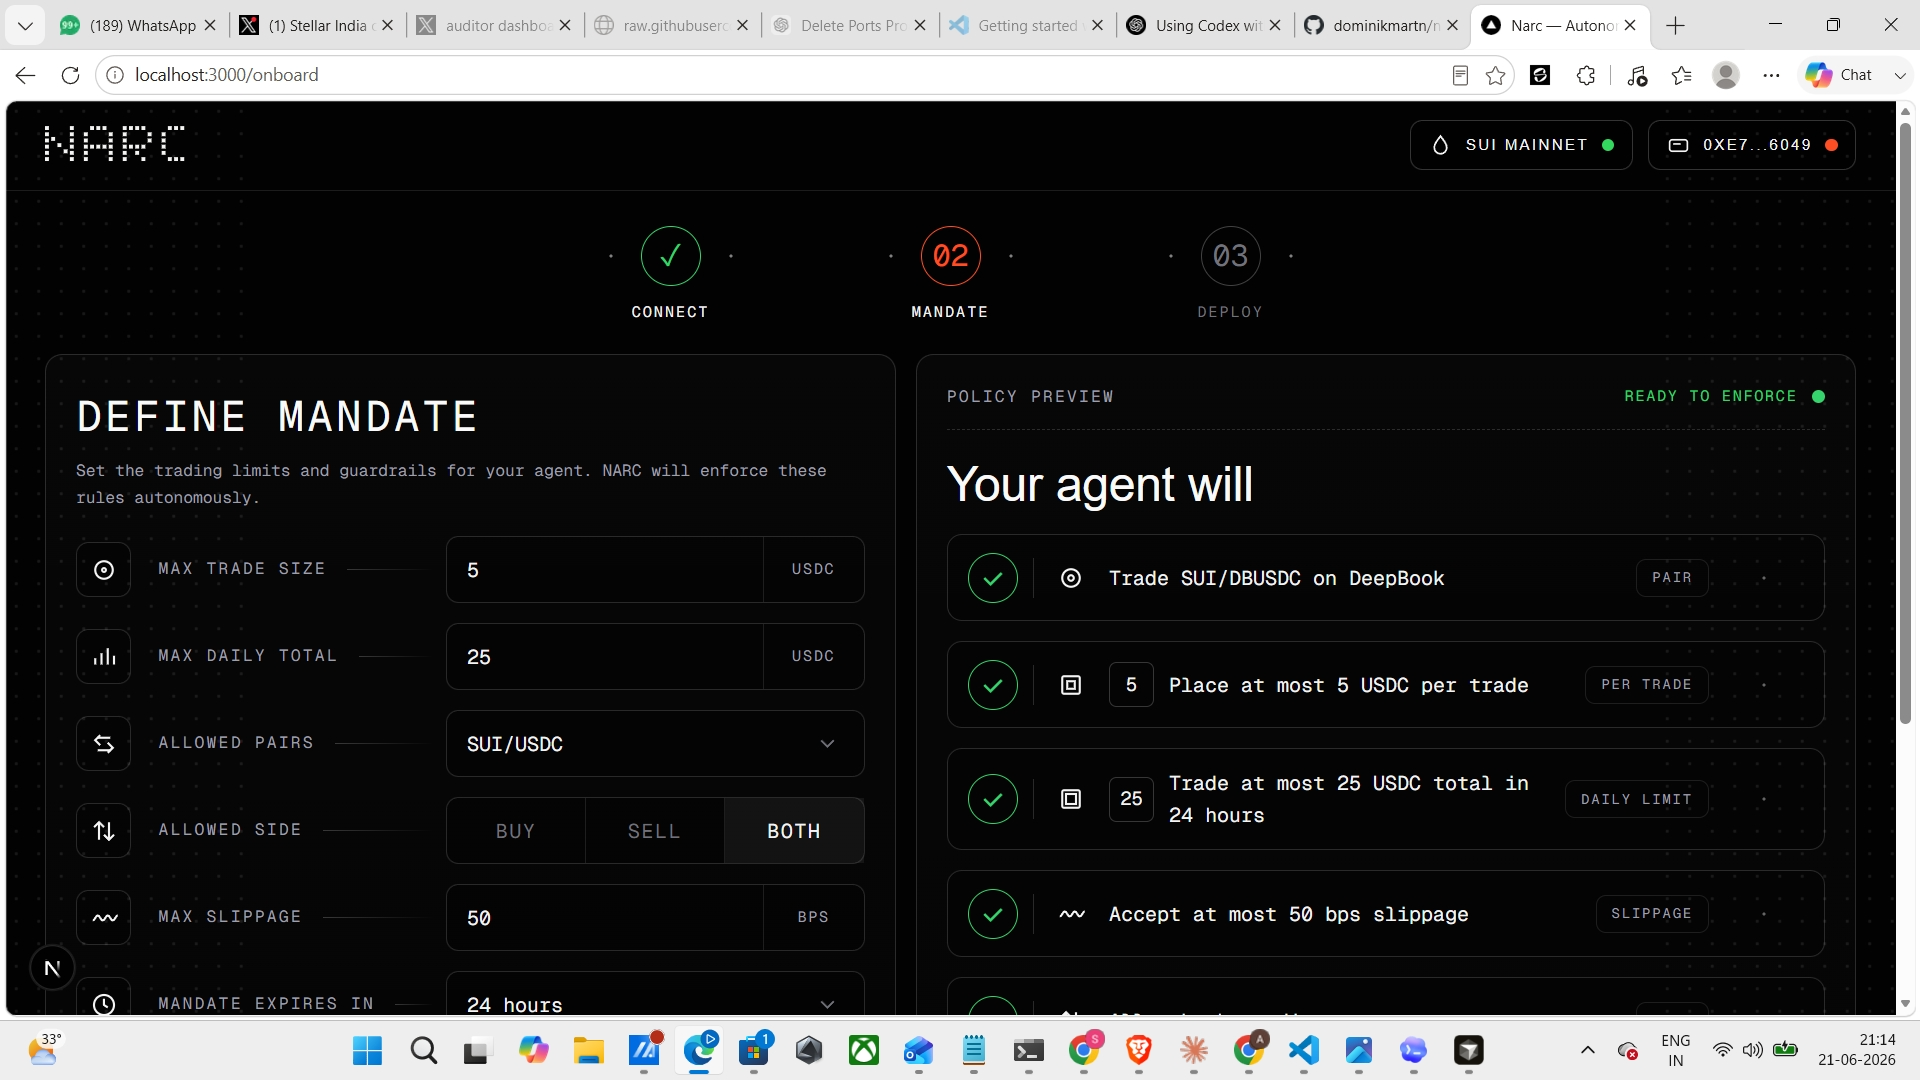
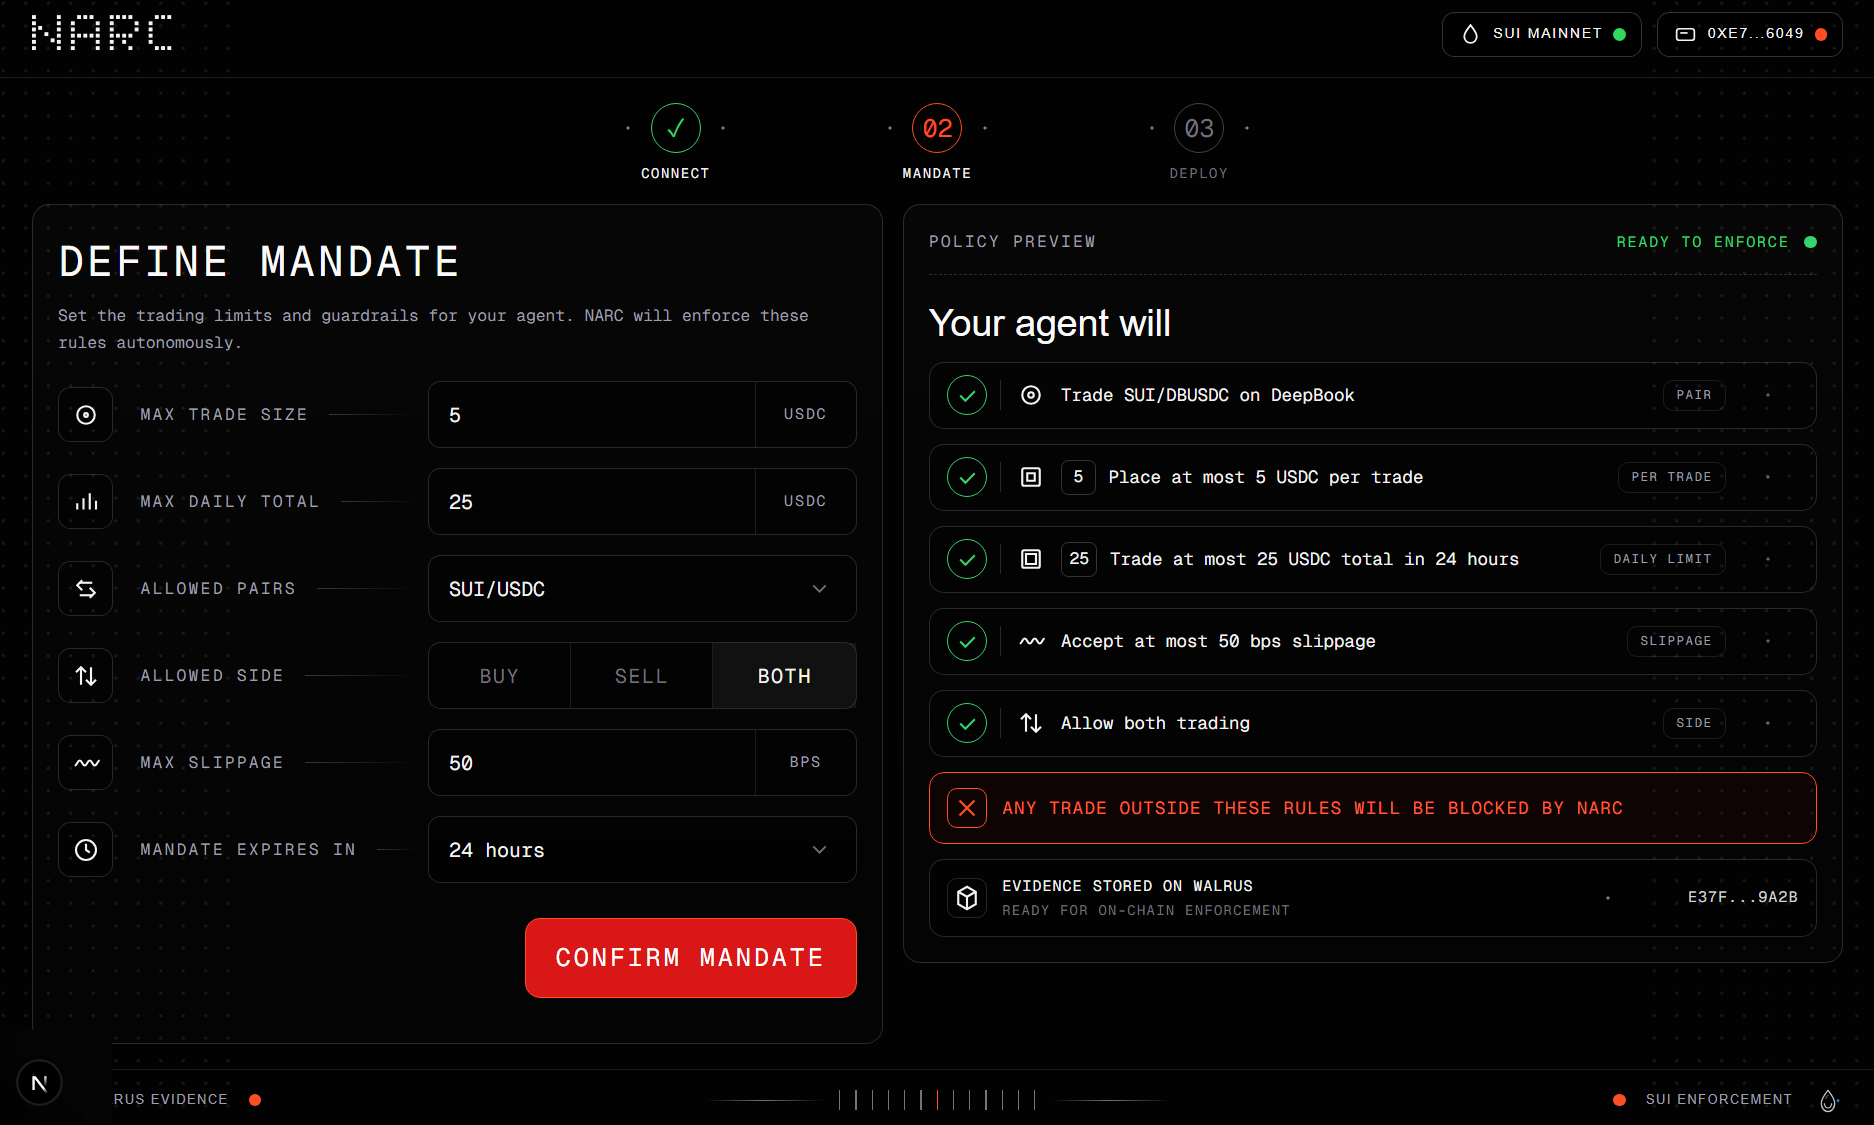
its all on singh sachi now

diff --git a/frontend/components/MandatePreview.tsx b/frontend/components/MandatePreview.tsx
@@ -19,8 +19,8 @@ export function MandatePreview({ values }: Props) {
     "Both";
 
   return (
-    <div className="space-y-4">
-      <h3 className="text-[26px] leading-tight text-zinc-50 sm:text-[38px]">
+    <div className="space-y-2.5">
+      <h3 className="text-[18px] leading-tight text-zinc-50 sm:text-[24px]">
         Your agent will
       </h3>
 
@@ -78,41 +78,41 @@ export function MandatePreview({ values }: Props) {
         text={`Allow ${sideLabel.toLowerCase()} trading`}
       />
 
-      <div className="rounded-[12px] border border-[#ff4d24] bg-[#0d0403] px-4 py-3.5">
-        <div className="flex items-center gap-4">
-          <span className="grid h-10 w-10 place-items-center rounded-[8px] border border-[#ff4d24] text-[#ff4d24]">
-            <svg viewBox="0 0 24 24" fill="none" stroke="currentColor" strokeWidth="1.8" className="h-6 w-6">
+      <div className="rounded-[12px] border border-[#ff4d24] bg-[#0d0403] px-3 py-2.5">
+        <div className="flex items-center gap-2.5">
+          <span className="grid h-7 w-7 place-items-center rounded-[7px] border border-[#ff4d24] text-[#ff4d24]">
+            <svg viewBox="0 0 24 24" fill="none" stroke="currentColor" strokeWidth="1.8" className="h-5 w-5">
               <path d="M6 6l12 12" />
               <path d="M18 6 6 18" />
             </svg>
           </span>
-          <p className="font-mono text-[14px] uppercase tracking-[0.08em] text-[#ff5c3b] sm:text-[16px]">
+          <p className="font-mono text-[11px] uppercase tracking-[0.06em] text-[#ff5c3b] sm:text-[12px]">
             Any trade outside these rules will be blocked by NARC
           </p>
         </div>
       </div>
 
-      <div className="flex items-center justify-between gap-4 rounded-[12px] border border-white/15 bg-black/30 px-4 py-3.5">
-        <div className="flex items-center gap-4">
-          <span className="grid h-10 w-10 place-items-center rounded-[8px] border border-white/15 text-zinc-100">
-            <svg viewBox="0 0 24 24" fill="none" stroke="currentColor" strokeWidth="1.7" className="h-6 w-6">
+      <div className="flex items-center justify-between gap-3 rounded-[12px] border border-white/15 bg-black/30 px-3 py-2.5">
+        <div className="flex items-center gap-2.5">
+          <span className="grid h-7 w-7 place-items-center rounded-[7px] border border-white/15 text-zinc-100">
+            <svg viewBox="0 0 24 24" fill="none" stroke="currentColor" strokeWidth="1.7" className="h-5 w-5">
               <path d="m12 3 7 4v10l-7 4-7-4V7l7-4Z" />
               <path d="M5 7l7 4 7-4" />
               <path d="M12 11v10" />
             </svg>
           </span>
           <div>
-            <div className="font-mono text-[14px] uppercase tracking-[0.08em] text-zinc-100">
+            <div className="font-mono text-[11px] uppercase tracking-[0.06em] text-zinc-100">
               Evidence stored on Walrus
             </div>
-            <div className="mt-1 font-mono text-[12px] uppercase tracking-[0.12em] text-zinc-500">
+            <div className="mt-0.5 font-mono text-[10px] uppercase tracking-[0.08em] text-zinc-500">
               Ready for on-chain enforcement
             </div>
           </div>
         </div>
-        <div className="hidden items-center gap-6 sm:flex">
-          <div className="h-4 w-32 bg-[radial-gradient(circle,rgba(255,255,255,0.65)_1px,transparent_1.5px)] bg-[length:8px_8px] bg-center bg-no-repeat opacity-80" />
-          <span className="font-mono text-[14px] uppercase tracking-[0.08em] text-zinc-300">
+        <div className="hidden items-center gap-3 sm:flex">
+          <div className="h-3 w-18 bg-[radial-gradient(circle,rgba(255,255,255,0.65)_1px,transparent_1.5px)] bg-[length:8px_8px] bg-center bg-no-repeat opacity-80" />
+          <span className="font-mono text-[11px] uppercase tracking-[0.06em] text-zinc-300">
             e37f...9a2b
           </span>
         </div>
@@ -133,28 +133,28 @@ function PreviewItem({
   value?: string;
 }) {
   return (
-    <div className="flex items-center gap-3 rounded-[12px] border border-white/15 bg-black/25 px-4 py-3.5">
-      <span className="grid h-10 w-10 shrink-0 place-items-center rounded-full border border-[#36d46c] text-[#36d46c]">
-        <svg viewBox="0 0 24 24" fill="none" stroke="currentColor" strokeWidth="2" className="h-6 w-6">
+    <div className="flex items-center gap-2 rounded-[12px] border border-white/15 bg-black/25 px-3 py-2">
+      <span className="grid h-7 w-7 shrink-0 place-items-center rounded-full border border-[#36d46c] text-[#36d46c]">
+        <svg viewBox="0 0 24 24" fill="none" stroke="currentColor" strokeWidth="2" className="h-4.5 w-4.5">
           <path d="m5 12 5 5L19 8" />
         </svg>
       </span>
-      <div className="h-8 w-px shrink-0 bg-white/15" />
-      <span className="grid h-9 w-9 shrink-0 place-items-center text-zinc-100">
+      <div className="h-5 w-px shrink-0 bg-white/15" />
+      <span className="grid h-6 w-6 shrink-0 place-items-center text-zinc-100">
         {icon}
       </span>
       {value ? (
-        <span className="grid h-9 min-w-9 shrink-0 place-items-center rounded-[6px] border border-white/20 px-2 font-mono text-[15px] text-zinc-100">
+        <span className="grid h-6 min-w-6 shrink-0 place-items-center rounded-[6px] border border-white/20 px-1 font-mono text-[11px] text-zinc-100">
           {value}
         </span>
       ) : null}
-      <span className="min-w-0 flex-1 font-mono text-[14px] leading-relaxed text-zinc-100 sm:text-[16px]">
+      <span className="min-w-0 flex-1 font-mono text-[11px] leading-relaxed text-zinc-100 sm:text-[12px]">
         {text}
       </span>
-      <span className="hidden rounded-[8px] border border-white/10 px-3 py-1.5 font-mono text-[11px] uppercase tracking-[0.14em] text-zinc-400 lg:block">
+      <span className="hidden rounded-[8px] border border-white/10 px-2 py-0.5 font-mono text-[9px] uppercase tracking-[0.1em] text-zinc-400 lg:block">
         {label}
       </span>
-      <span className="hidden h-4 w-16 bg-[radial-gradient(circle,rgba(255,255,255,0.55)_1px,transparent_1.5px)] bg-[length:8px_8px] bg-center bg-no-repeat opacity-70 lg:block" />
+      <span className="hidden h-2.5 w-10 bg-[radial-gradient(circle,rgba(255,255,255,0.55)_1px,transparent_1.5px)] bg-[length:8px_8px] bg-center bg-no-repeat opacity-70 lg:block" />
     </div>
   );
 }

diff --git a/frontend/components/MandateForm.tsx b/frontend/components/MandateForm.tsx
@@ -32,7 +32,7 @@ const DEFAULTS: MandateFormValues = {
 
 function FieldIcon({ children }: { children: ReactNode }) {
   return (
-    <span className="grid h-11 w-11 shrink-0 place-items-center rounded-[10px] border border-white/15 bg-black/40 text-zinc-100">
+    <span className="grid h-8 w-8 shrink-0 place-items-center rounded-[8px] border border-white/15 bg-black/40 text-zinc-100">
       {children}
     </span>
   );
@@ -48,10 +48,10 @@ function FieldRow({
   children: ReactNode;
 }) {
   return (
-    <div className="grid gap-2.5 md:grid-cols-[56px_minmax(160px,220px)_minmax(0,1fr)] md:items-center">
+    <div className="grid gap-1.5 md:grid-cols-[40px_minmax(132px,182px)_minmax(0,1fr)] md:items-center">
       <FieldIcon>{icon}</FieldIcon>
-      <div className="flex items-center gap-4">
-        <span className="font-mono text-[13px] uppercase tracking-[0.14em] text-zinc-400">
+      <div className="flex items-center gap-2.5">
+        <span className="font-mono text-[10px] uppercase tracking-[0.1em] text-zinc-400">
           {label}
         </span>
         <span className="hidden h-[1px] flex-1 bg-[linear-gradient(90deg,rgba(255,255,255,0.2),transparent)] md:block" />
@@ -77,7 +77,7 @@ function NumericInput({
   step: number;
 }) {
   return (
-    <div className="grid grid-cols-[minmax(0,1fr)_80px] rounded-[10px] border border-white/15 bg-black/35">
+    <div className="grid grid-cols-[minmax(0,1fr)_60px] rounded-[10px] border border-white/15 bg-black/35">
       <input
         type="number"
         min={min}
@@ -85,10 +85,10 @@ function NumericInput({
         step={step}
         value={value}
         onChange={(e) => onChange(Number(e.target.value))}
-        className="min-w-0 border-r border-white/10 bg-transparent px-4 py-3.5 font-mono text-[16px] text-zinc-100 outline-none placeholder:text-zinc-600 focus:bg-white/[0.03]"
+        className="min-w-0 border-r border-white/10 bg-transparent px-3 py-2 font-mono text-[13px] text-zinc-100 outline-none placeholder:text-zinc-600 focus:bg-white/[0.03]"
         required
       />
-      <div className="grid place-items-center px-3 font-mono text-[12px] uppercase tracking-[0.12em] text-zinc-400">
+      <div className="grid place-items-center px-1.5 font-mono text-[9px] uppercase tracking-[0.08em] text-zinc-400">
         {suffix}
       </div>
     </div>
@@ -119,11 +119,11 @@ export function MandateForm({
   }
 
   return (
-    <form onSubmit={handleSubmit} className="space-y-4">
+    <form onSubmit={handleSubmit} className="space-y-2.5">
       <FieldRow
         label="Max trade size"
         icon={
-          <svg viewBox="0 0 24 24" fill="none" stroke="currentColor" strokeWidth="1.7" className="h-6 w-6">
+          <svg viewBox="0 0 24 24" fill="none" stroke="currentColor" strokeWidth="1.7" className="h-4.5 w-4.5">
             <circle cx="12" cy="12" r="7" />
             <circle cx="12" cy="12" r="1.5" />
           </svg>
@@ -141,7 +141,7 @@ export function MandateForm({
       <FieldRow
         label="Max daily total"
         icon={
-          <svg viewBox="0 0 24 24" fill="none" stroke="currentColor" strokeWidth="1.7" className="h-6 w-6">
+          <svg viewBox="0 0 24 24" fill="none" stroke="currentColor" strokeWidth="1.7" className="h-4.5 w-4.5">
             <path d="M5 18V13" />
             <path d="M10 18V9" />
             <path d="M15 18V5" />
@@ -161,7 +161,7 @@ export function MandateForm({
       <FieldRow
         label="Allowed pairs"
         icon={
-          <svg viewBox="0 0 24 24" fill="none" stroke="currentColor" strokeWidth="1.7" className="h-6 w-6">
+          <svg viewBox="0 0 24 24" fill="none" stroke="currentColor" strokeWidth="1.7" className="h-4.5 w-4.5">
             <path d="M7 7h10" />
             <path d="M7 17h10" />
             <path d="M9 5 5 9l4 4" />
@@ -173,12 +173,12 @@ export function MandateForm({
           <select
             value={values.allowedPairs[0]}
             onChange={(e) => set("allowedPairs", [e.target.value])}
-            className="w-full appearance-none rounded-[10px] border border-white/15 bg-black/35 px-4 py-3.5 font-mono text-[16px] text-zinc-100 outline-none transition focus:bg-white/[0.03]"
+            className="w-full appearance-none rounded-[10px] border border-white/15 bg-black/35 px-3 py-2 font-mono text-[13px] text-zinc-100 outline-none transition focus:bg-white/[0.03]"
           >
             <option value="SUI_DBUSDC">SUI/USDC</option>
           </select>
-          <span className="pointer-events-none absolute inset-y-0 right-5 flex items-center text-zinc-500">
-            <svg viewBox="0 0 24 24" fill="none" stroke="currentColor" strokeWidth="1.7" className="h-5 w-5">
+          <span className="pointer-events-none absolute inset-y-0 right-3.5 flex items-center text-zinc-500">
+            <svg viewBox="0 0 24 24" fill="none" stroke="currentColor" strokeWidth="1.7" className="h-3.5 w-3.5">
               <path d="m6 9 6 6 6-6" />
             </svg>
           </span>
@@ -188,7 +188,7 @@ export function MandateForm({
       <FieldRow
         label="Allowed side"
         icon={
-          <svg viewBox="0 0 24 24" fill="none" stroke="currentColor" strokeWidth="1.7" className="h-6 w-6">
+          <svg viewBox="0 0 24 24" fill="none" stroke="currentColor" strokeWidth="1.7" className="h-4.5 w-4.5">
             <path d="M8 5v14" />
             <path d="m4 9 4-4 4 4" />
             <path d="M16 19V5" />
@@ -208,7 +208,7 @@ export function MandateForm({
                 key={option.label}
                 type="button"
                 onClick={() => set("allowedSide", option.value)}
-                className={`border-r border-white/10 px-3 py-3.5 font-mono text-[16px] tracking-[0.08em] transition last:border-r-0 ${
+                className={`border-r border-white/10 px-2 py-2 font-mono text-[12px] tracking-[0.07em] transition last:border-r-0 ${
                   active ? "bg-white/[0.06] text-zinc-100" : "text-zinc-500 hover:text-zinc-300"
                 }`}
               >
@@ -222,7 +222,7 @@ export function MandateForm({
       <FieldRow
         label="Max slippage"
         icon={
-          <svg viewBox="0 0 24 24" fill="none" stroke="currentColor" strokeWidth="1.7" className="h-6 w-6">
+          <svg viewBox="0 0 24 24" fill="none" stroke="currentColor" strokeWidth="1.7" className="h-4.5 w-4.5">
             <path d="M3 14c2 0 2-4 4-4s2 4 4 4 2-4 4-4 2 4 4 4 2-4 4-4" />
           </svg>
         }
@@ -240,7 +240,7 @@ export function MandateForm({
       <FieldRow
         label="Mandate expires in"
         icon={
-          <svg viewBox="0 0 24 24" fill="none" stroke="currentColor" strokeWidth="1.7" className="h-6 w-6">
+          <svg viewBox="0 0 24 24" fill="none" stroke="currentColor" strokeWidth="1.7" className="h-4.5 w-4.5">
             <circle cx="12" cy="12" r="8" />
             <path d="M12 7v5l3 2" />
           </svg>
@@ -250,15 +250,15 @@ export function MandateForm({
           <select
             value={values.expiresInHours}
             onChange={(e) => set("expiresInHours", Number(e.target.value))}
-            className="w-full appearance-none rounded-[10px] border border-white/15 bg-black/35 px-4 py-3.5 font-mono text-[16px] text-zinc-100 outline-none transition focus:bg-white/[0.03]"
+            className="w-full appearance-none rounded-[10px] border border-white/15 bg-black/35 px-3 py-2 font-mono text-[13px] text-zinc-100 outline-none transition focus:bg-white/[0.03]"
           >
             <option value={1}>1 hour</option>
             <option value={8}>8 hours</option>
             <option value={24}>24 hours</option>
             <option value={168}>7 days</option>
           </select>
-          <span className="pointer-events-none absolute inset-y-0 right-5 flex items-center text-zinc-500">
-            <svg viewBox="0 0 24 24" fill="none" stroke="currentColor" strokeWidth="1.7" className="h-5 w-5">
+          <span className="pointer-events-none absolute inset-y-0 right-3.5 flex items-center text-zinc-500">
+            <svg viewBox="0 0 24 24" fill="none" stroke="currentColor" strokeWidth="1.7" className="h-3.5 w-3.5">
               <path d="m6 9 6 6 6-6" />
             </svg>
           </span>
@@ -266,16 +266,16 @@ export function MandateForm({
       </FieldRow>
 
       {error ? (
-        <div className="rounded-[12px] border border-[#ff4d24]/40 bg-[#120604] px-4 py-3 font-mono text-[12px] uppercase tracking-[0.1em] text-[#ff4d24]">
+        <div className="rounded-[12px] border border-[#ff4d24]/40 bg-[#120604] px-3 py-2 font-mono text-[10px] uppercase tracking-[0.07em] text-[#ff4d24]">
           {error}
         </div>
       ) : null}
 
-      <div className="flex justify-end pt-3">
+      <div className="flex justify-end pt-2">
         <button
           type="submit"
           disabled={isLoading}
-          className="inline-flex min-h-16 min-w-[260px] items-center justify-center rounded-[12px] border border-[#ff4d24] bg-[#d91717] px-6 py-4 font-mono text-[20px] uppercase tracking-[0.12em] text-white transition hover:bg-[#ea2424] disabled:cursor-not-allowed disabled:opacity-50"
+          className="inline-flex min-h-12 min-w-[200px] items-center justify-center rounded-[12px] border border-[#ff4d24] bg-[#d91717] px-4 py-2.5 font-mono text-[14px] uppercase tracking-[0.09em] text-white transition hover:bg-[#ea2424] disabled:cursor-not-allowed disabled:opacity-50"
         >
           {isLoading ? "Saving..." : submitLabel}
         </button>

diff --git a/frontend/app/onboard/page.tsx b/frontend/app/onboard/page.tsx
@@ -50,7 +50,7 @@ function HeaderPill({
   dotClassName?: string;
 }) {
   return (
-    <div className="inline-flex h-10 items-center gap-2.5 rounded-[10px] border border-white/20 bg-black/55 px-3.5 text-[11px] uppercase tracking-[0.16em] text-zinc-100 sm:text-[12px]">
+    <div className="inline-flex h-9 items-center gap-2 rounded-[10px] border border-white/20 bg-black/55 px-3 text-[10px] uppercase tracking-[0.14em] text-zinc-100 sm:text-[11px]">
       {icon}
       <span>{label}</span>
       {dotClassName ? <span className={`h-2.5 w-2.5 rounded-full ${dotClassName}`} /> : null}
@@ -60,19 +60,19 @@ function HeaderPill({
 
 function StepIndicator({ current }: { current: Step }) {
   return (
-    <div className="mx-auto flex w-full max-w-[660px] items-center justify-between gap-3">
+    <div className="mx-auto flex w-full max-w-[620px] items-center justify-between gap-2">
       {steps.map((step, index) => {
         const isActive = step.value === current;
         const isDone = step.value < current;
 
         return (
-          <div key={step.value} className="flex min-w-0 flex-1 items-center justify-center gap-3">
+          <div key={step.value} className="flex min-w-0 flex-1 items-center justify-center gap-2">
             <div className="hidden h-[1px] flex-1 bg-white/25 first:hidden md:block" style={{ opacity: index === 0 ? 0 : 1 }} />
-            <div className="flex flex-col items-center gap-3">
-              <div className="flex items-center gap-3">
-                <div className="hidden h-4 w-6 bg-[radial-gradient(circle,rgba(255,255,255,0.5)_1px,transparent_1.5px)] bg-[length:8px_8px] bg-center bg-no-repeat md:block" />
+            <div className="flex flex-col items-center gap-2">
+              <div className="flex items-center gap-2">
+                <div className="hidden h-3 w-5 bg-[radial-gradient(circle,rgba(255,255,255,0.5)_1px,transparent_1.5px)] bg-[length:8px_8px] bg-center bg-no-repeat md:block" />
                 <div
-                  className={`grid h-12 w-12 place-items-center rounded-full border font-mono text-[24px] leading-none ${
+                  className={`grid h-10 w-10 place-items-center rounded-full border font-mono text-[20px] leading-none ${
                     isActive
                       ? "border-[#ff4d24] text-[#ff4d24]"
                       : isDone
@@ -82,9 +82,9 @@ function StepIndicator({ current }: { current: Step }) {
                 >
                   {isDone ? "✓" : `0${step.value}`}
                 </div>
-                <div className="hidden h-4 w-6 bg-[radial-gradient(circle,rgba(255,255,255,0.5)_1px,transparent_1.5px)] bg-[length:8px_8px] bg-center bg-no-repeat md:block" />
+                <div className="hidden h-3 w-5 bg-[radial-gradient(circle,rgba(255,255,255,0.5)_1px,transparent_1.5px)] bg-[length:8px_8px] bg-center bg-no-repeat md:block" />
               </div>
-              <div className={`text-center font-mono text-[12px] tracking-[0.14em] ${isActive || isDone ? "text-zinc-100" : "text-zinc-500"}`}>
+              <div className={`text-center font-mono text-[11px] tracking-[0.12em] ${isActive || isDone ? "text-zinc-100" : "text-zinc-500"}`}>
                 {step.label}
               </div>
             </div>
@@ -98,15 +98,15 @@ function StepIndicator({ current }: { current: Step }) {
 
 function FooterRail() {
   return (
-    <footer className="border-t border-white/10 px-4 py-4 sm:px-8">
-      <div className="mx-auto flex w-full max-w-[1680px] items-center justify-between gap-4 text-[11px] uppercase tracking-[0.16em] text-zinc-400">
-        <div className="flex items-center gap-4">
-          <img src={asset("ecosystem-walrus.svg")} alt="" className="h-7 w-7 opacity-80" />
+    <footer className="border-t border-white/10 px-4 py-3 sm:px-8">
+      <div className="mx-auto flex w-full max-w-[1680px] items-center justify-between gap-4 text-[10px] uppercase tracking-[0.14em] text-zinc-400">
+        <div className="flex items-center gap-4 pl-12 sm:pl-14">
+          <img src={asset("ecosystem-walrus.svg")} alt="" className="h-6 w-6 opacity-80" />
           <span>Walrus Evidence</span>
           <span className="h-2.5 w-2.5 rounded-full bg-[#ff4d24]" />
         </div>
         <div className="hidden items-center gap-3 md:flex">
-          <div className="h-[1px] w-28 bg-[linear-gradient(90deg,transparent,rgba(255,255,255,0.45),transparent)]" />
+          <div className="h-[1px] w-24 bg-[linear-gradient(90deg,transparent,rgba(255,255,255,0.45),transparent)]" />
           <div className="flex items-center gap-3">
             {Array.from({ length: 13 }).map((_, index) => (
               <span
@@ -115,12 +115,12 @@ function FooterRail() {
               />
             ))}
           </div>
-          <div className="h-[1px] w-28 bg-[linear-gradient(90deg,transparent,rgba(255,255,255,0.45),transparent)]" />
+          <div className="h-[1px] w-24 bg-[linear-gradient(90deg,transparent,rgba(255,255,255,0.45),transparent)]" />
         </div>
         <div className="flex items-center gap-4">
           <span className="h-2.5 w-2.5 rounded-full bg-[#ff4d24]" />
           <span>Sui Enforcement</span>
-          <img src={asset("ecosystem-sui.svg")} alt="" className="h-7 w-7 opacity-80" />
+          <img src={asset("ecosystem-sui.svg")} alt="" className="h-6 w-6 opacity-80" />
         </div>
       </div>
     </footer>

diff --git a/frontend/app/page.tsx b/frontend/app/page.tsx
@@ -1,21 +1,5 @@
 import { redirect } from "next/navigation";
-import { existsSync } from "node:fs";
-import { join, resolve } from "node:path";
-
-function activityDir(): string {
-  const configured = process.env.LOCAL_ACTIVITY_DIR;
-  const cwd = /*turbopackIgnore: true*/ process.cwd();
-  if (configured) return resolve(cwd, "..", configured);
-  return resolve(cwd, "../.narc/activity");
-}
 
 export default function Home() {
-  const mandateFile = join(activityDir(), "trader-a-mandate.json");
-  const hasMandate = existsSync(mandateFile);
-
-  if (!hasMandate) {
-    redirect("/onboard");
-  }
-
-  redirect("/dashboard");
+  redirect("/landing");
 }